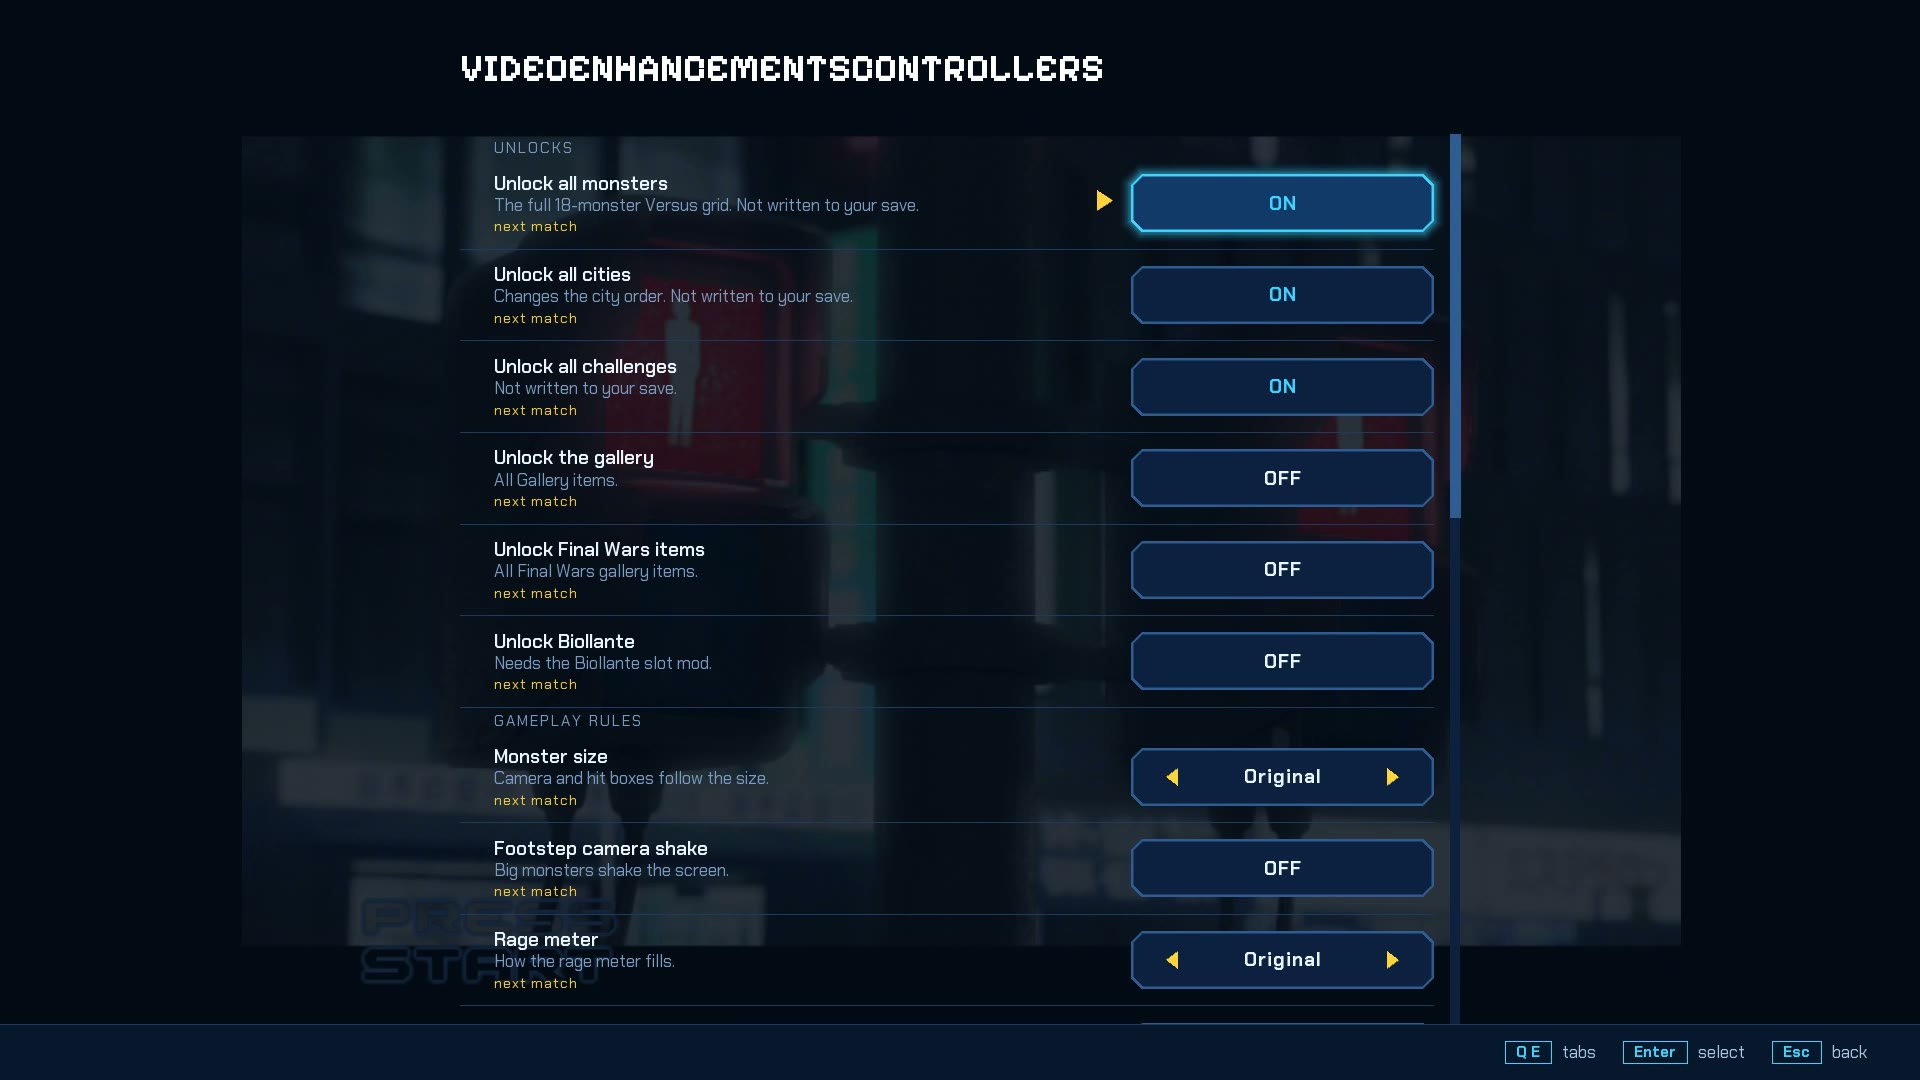
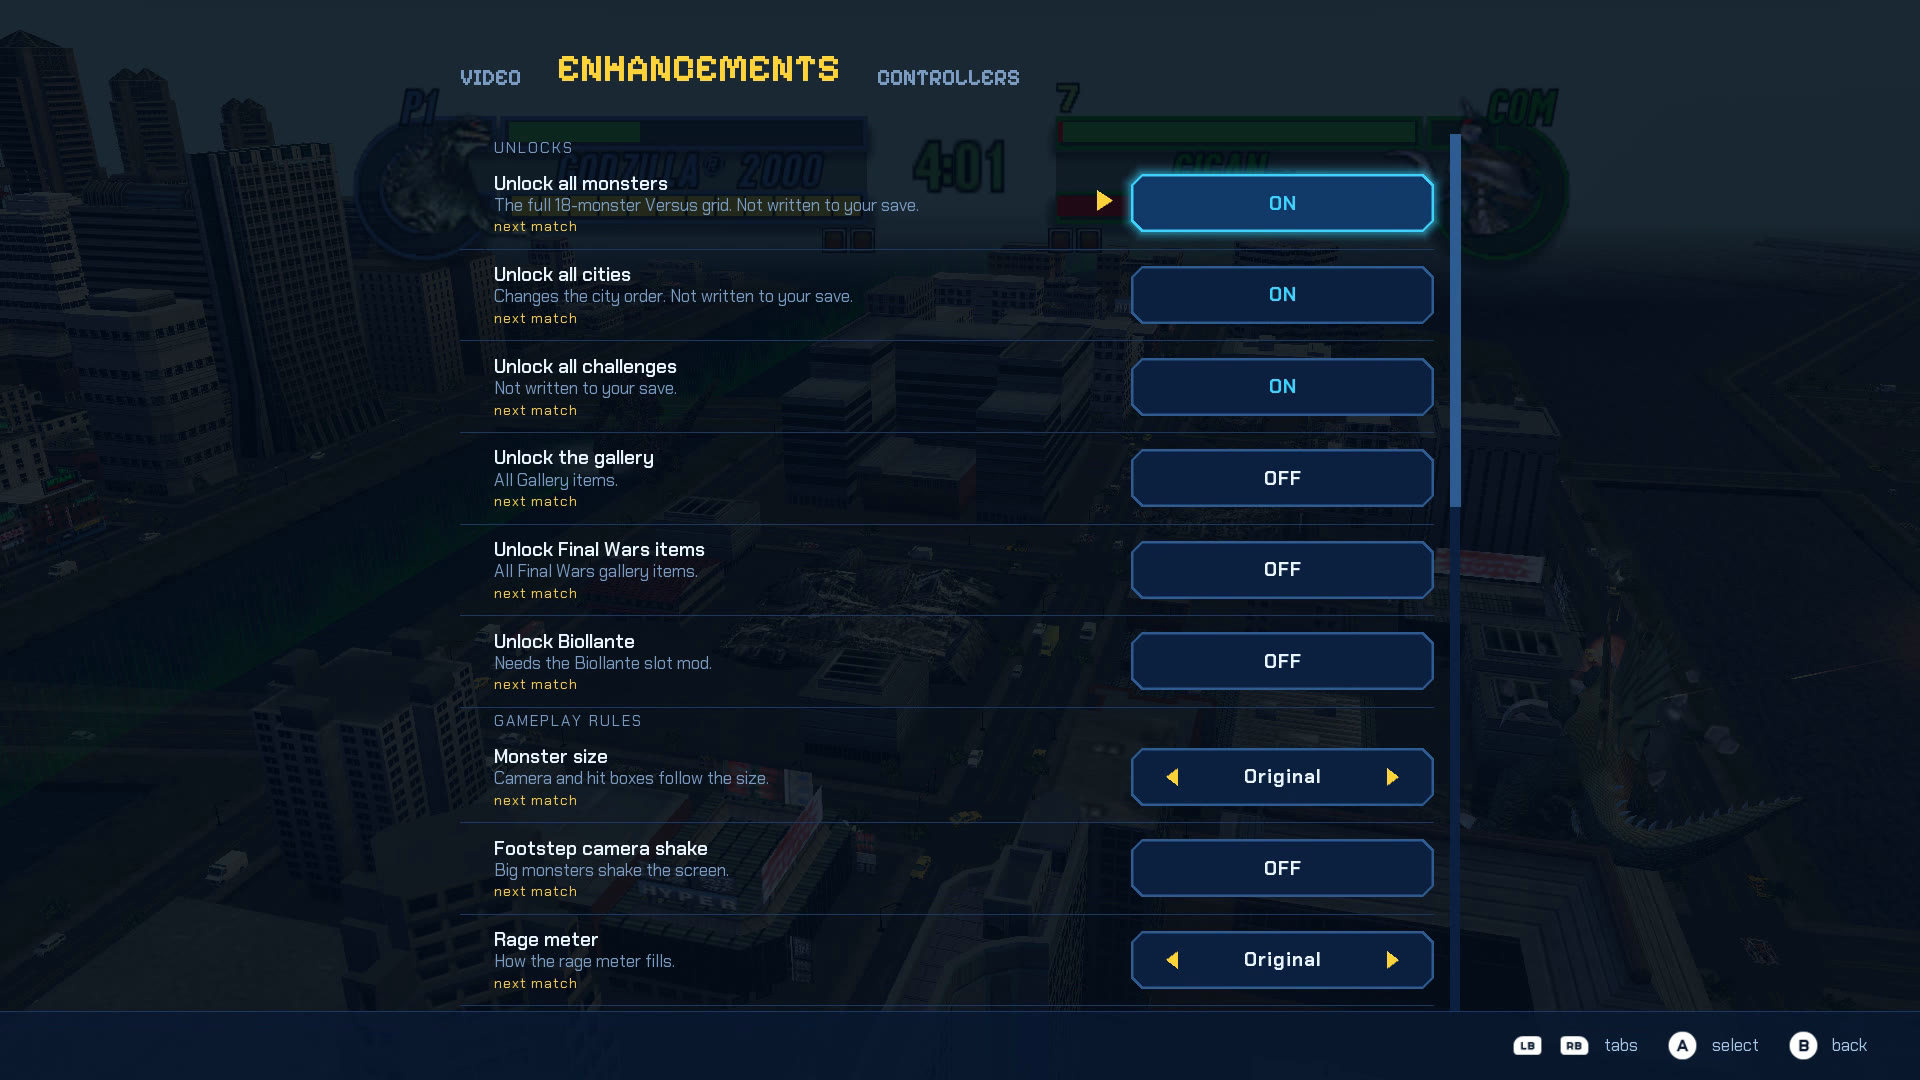
0.1.8 (c423): overlay hint bar follows the last used device; retaken controller-navigation screenshot
- the game now tells the overlay which device was used last (keyboard keys / pad), so the hint bar shows controller pictures (c423 supersedes c422)
- 0.1.8_overlay_controller_navigation.jpg retaken with the final overlay dll (new tab strip, LB/RB tabs hint)
- REPORT_0.1.8: correction section (launcher smoke findings, exclusive-mode menu close lead)

diff --git a/ste/src/ste_settings_glue.c b/ste/src/ste_settings_glue.c
@@ -187,6 +187,8 @@ static int step(Rep *r, int now, ULONGLONG t)
 }
 static void feed_nav(int nav) { ste_overlay_input in; memset(&in, 0, sizeof in); in.type = STE_INPUT_NAV; in.nav = nav; g_api.feed(g_ov, &in); }
 static void feed_release(int nav) { ste_overlay_input in; memset(&in, 0, sizeof in); in.type = STE_INPUT_NAV_RELEASE; in.nav = nav; g_api.feed(g_ov, &in); }   /* c420: after the first release the overlay repeats held directions itself */
+static int g_dev_cur = -1;   /* c423: device kind last told to the overlay (hint bar pictures); -1 = not set since the menu opened */
+static void set_dev(int kind) { if (kind != g_dev_cur) { g_api.set_input_device(g_ov, kind); g_dev_cur = kind; } }
 static void feed_source(const char *s) { ste_overlay_input in; memset(&in, 0, sizeof in); in.type = STE_INPUT_SOURCE; in.source = s; g_api.feed(g_ov, &in); }
 static const char *key_source(unsigned vk, char *b, size_t n)
 {
@@ -209,6 +211,7 @@ static void pump_input(ULONGLONG t)
         if (g_kq_r == w) break;
         vk = (unsigned)g_keyq[g_kq_r % 64]; g_kq_r++;
         if (g_api.listening(g_ov)) { const char *n = vk == VK_ESCAPE ? "cancel" : key_source(vk, nb, sizeof nb); if (n) feed_source(n); continue; }
+        set_dev(STE_DEVICE_KEYBOARD);
         switch (vk) {
             case VK_UP: feed_nav(STE_NAV_UP); feed_release(STE_NAV_UP); break; case VK_DOWN: feed_nav(STE_NAV_DOWN); feed_release(STE_NAV_DOWN); break; case VK_LEFT: feed_nav(STE_NAV_LEFT); feed_release(STE_NAV_LEFT); break; case VK_RIGHT: feed_nav(STE_NAV_RIGHT); feed_release(STE_NAV_RIGHT); break;
             case VK_PRIOR: feed_nav(STE_NAV_PREV_TAB); break; case VK_NEXT: feed_nav(STE_NAV_NEXT_TAB); break;
@@ -226,6 +229,7 @@ static void pump_input(ULONGLONG t)
     }
     if (!g_api.listening(g_ov)) {
         /* c420: first press only + release on let-go (the overlay repeats held directions itself); A confirm, B back, LB/RB tabs, Start closes */
+        if ((U | D | L | R | A | B | LB | RB | ST) && !(pu | pd | pl | pr | pa | pb | plb | prb | pst)) set_dev(STE_DEVICE_XBOX);   /* c423: the last device used decides the hint bar */
         if (U != pu) { if (U) feed_nav(STE_NAV_UP); else feed_release(STE_NAV_UP); pu = U; }
         if (D != pd) { if (D) feed_nav(STE_NAV_DOWN); else feed_release(STE_NAV_DOWN); pd = D; }
         if (L != pl) { if (L) feed_nav(STE_NAV_LEFT); else feed_release(STE_NAV_LEFT); pl = L; }
@@ -300,7 +304,7 @@ void ste_overlay_frame(void *device, void *rtv, int w, int h)
     }
     if (w != g_w || h != g_h) { g_w = w; g_h = h; g_api.resize(g_ov, w, h, 1.0f); }
     t = GetTickCount64();
-    while (ste_overlay_poll(&why, &port)) { if (g_api.visible(g_ov)) g_api.hide(g_ov); else { set_pads(); g_api.show(g_ov); } }
+    while (ste_overlay_poll(&why, &port)) { if (g_api.visible(g_ov)) g_api.hide(g_ov); else { set_pads(); g_dev_cur = -1; g_api.show(g_ov); } }
     if (g_api.visible(g_ov)) pump_input(t);
     {   /* test aid: STE_OVERLAY_TEST_NAV="down,down,confirm,back,up,left,right" feeds one navigation step every 900 ms while the overlay is open (scripted pads never reach the overlay) */
         static int idx; static ULONGLONG nxt; const char *l = getenv("STE_OVERLAY_TEST_NAV");

diff --git a/docs/REPORT_0.1.8.md b/docs/REPORT_0.1.8.md
@@ -49,3 +49,9 @@ Slipped: item 5 (Tokyo out-of-bounds UFO: identified as the power-up delivery sh
 Known issues: exclusive fullscreen unproven; the menu clip has repeated frames while the game is paused; the overlay title bar tab names appear run together in the clip (launcher UI); screenshots of 0.1.7 not archived (README links).
 Decisions to review: (1) `fullscreen` now means borderless for everyone (exclusive renamed to `exclusive`); (2) keyboard typing speed-up trades a little robustness for speed (every move is still verified on screen; STE_TE_SLOW=1 restores the old timing); (3) governor floor 3.0 means a weak PC at x4 loses fps instead of skyline (default query_scale is 1.5, so unaffected); (4) the showcase Unlimited clip is x2.
 Not published; no push. Next after Miko's go-ahead: item 5 and 6 (needs an object-list/sound-cue logger), then 0.2.
+
+## Correction: c423 supersedes c422 (2026-11-19, after the launcher's smoke)
+- The launcher asked for a controller-glyph hint bar in the menu. Cause of "keyboard hints even with a pad": the game never called the overlay's set_input_device(). c423 (patches\c423_overlay_device_hint.patch) tells the overlay the last used device (keyboard keys -> keyboard, pad edges -> Xbox), reset to unset each time the menu opens. Verified in the menu clip frame (LB RB tabs, A select, B back pictures, tab strip VIDEO / ENHANCEMENTS / CONTROLLERS). c423 SHA-256 2180794F0386864CBC0F4C581E674F08D8D8C601819B5C8E8B08E468A0F0F4C0, version 0.1.8.423 / 0.1.8+c423, validator PASS; the only difference to c422 is this change. c423 is the 0.1.8 exe; c422 stays in artifacts.
+- Clips for the launcher (E:\GodzillaSTE\release\media\0.1.8\clips): menu_controller_v2.mkv (menu over a running fight, controller only, wall-clock timestamps so frames repeat while the menu is open), keyboard_typing_v2.mkv (no profile list). The launcher declined the draw-distance clip (no pop-in verification); the unlimited screenshot stays out of docs.
+- Exclusive-fullscreen finding from the launcher's smoke (E_exclusive_responsive.err): the menu opens, a virtual pad B is logged, but "closed: game resumed" never appears. This may be the real exclusive-mode menu problem (Black Mamba's freeze); not investigated yet.
+- Process lesson: two game instances (mine + the launcher's smoke) crash both at boot; see memory note shared-pc-game-instances.

diff --git a/docs/NOTE_FOR_LAUNCHER_0.1.8_promoted_c422.md b/docs/NOTE_FOR_LAUNCHER_0.1.8_promoted_c422.md
@@ -1,5 +1,5 @@
-# NOTE FOR THE LAUNCHER SESSION: 0.1.8 promoted = c422
-Exe: mission-l6\artifacts\ste_recomp_mission_l6_candidate422.exe, SHA-256 BD96D5870EB572F56C9DB84B261E14CA8C2C16085048149287D78E900042183C, version resource 0.1.8.422 / 0.1.8+c422 (`--version` 0.1.8). Validator PASS (candidate86). Not published; Miko publishes.
+# NOTE FOR THE LAUNCHER SESSION: 0.1.8 promoted = c423 (supersedes c422)
+Exe: mission-l6\artifacts\ste_recomp_mission_l6_candidate423.exe, SHA-256 2180794F0386864CBC0F4C581E674F08D8D8C601819B5C8E8B08E468A0F0F4C0, version resource 0.1.8.423 / 0.1.8+c423 (c423 = c422 + the overlay now sets its input device so the hint bar shows controller pictures) (`--version` 0.1.8). Validator PASS (candidate86). Not published; Miko publishes.
 In the game exe since 0.1.7:
 - Video mode: ste_video.ini [video] mode = window | borderless | fullscreen | exclusive. `fullscreen` is now BORDERLESS fullscreen (flip-model chain, log window_mode=borderless); `exclusive` = true exclusive fullscreen, advanced and unproven (opt-in). Suggested labels: Window / Fullscreen (borderless) / Exclusive fullscreen (advanced). Existing mode=fullscreen files keep working (now borderless).
 - Overlay pad navigation (needs your overlay dll with STE_NAV_PREV/NEXT_TAB + STE_INPUT_NAV_RELEASE, F:\GodzillaSTE_work\ov_dll_018): D-pad/left stick, A confirm, B back, LB/RB tabs, Start closes; the game refreshes the SDL pad itself while the menu is open (the 0.1.7 menu ignored pads because only the held game thread refreshed them). Pad-only pass logged in docs\REPORT_0.1.8.md. Keyboard: arrows/Enter/Esc as before, PageUp/PageDown tabs.
